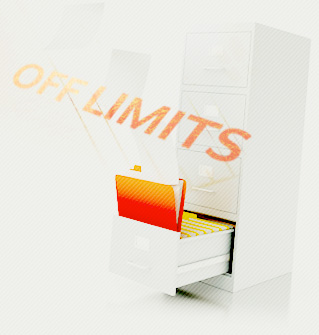
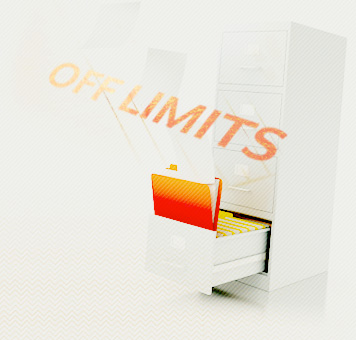
next text on findatcat

Changed region(s): [[0.0282, 0.1791, 0.8182, 0.5075], [0.3386, 0.4776, 0.79, 0.9254]]

diff --git a/templates/findatcat/index.html b/templates/findatcat/index.html
@@ -10,22 +10,18 @@
 {% block main_content %}
 <div id="columns">
     <div id="fullColumn">
-        <h2><a href="/buriedtreasure/">Buried Treasure</a> <span>What we don't know about money in America</span></h2>
+        <h2 class="title"><a href="/buriedtreasure/">Buried Treasure</a> <span>What we don't know about money in America</span></h2>
         <ul id="featureNav">
             <li class="last"><a href="mailto:buriedtreasure@sunlightfoundation.com">Suggest a Story</a></li>
         </ul>    
         <div class="clear" id="financialFeature">
             <div id="ltColumn">
-                <p>The financial world is in turmoil; the economic forecasts are beyond grim. Unemployment rates are among the highest seen in decades. Millions of Americans are estimated to be “underwater” in their mortgages—owing more on their homes than their properties are worth. Retirement funds are dwindling. The threat of a double dip recession looms.</p>
-                <p>In the midst of all this tumult, a person seeking simple information about aspects of their financial life is often thwarted. While the federal government maintains vast treasure troves of relevant financial data, and wields the power to compel corporate America to report much more, not all of this information is disclosed.</p>
-                <p><b>This page serves as hub for our reporting on financial data—who has it, why it is important</b>, whether it is publicly available and whether it’s in a format that is easily accessible. You will find stories, links to databases and other resources.</p>
+                <p>The federal government maintains vast treasure troves of important financial data, but discloses little. It holds the power to compel corporate America to report much more, but rarely does.</p>
+                <p><b>This page serves as hub for our reporting on this financial data. Who has it? Why it is important?</b> What is publicly available? How can you get it?</p>
+                <p>On this site you will find stories, links to databases and other resources. Have an idea for a story? <a href="mailto:buriedtreasure@sunlightfoundation.com">Let us know</a>.</p>
             </div>
             <div id="rtColumn">
-                <img alt="filing cabinet with files flying out" src="{% media_url %}/img/img_financial.jpg"/>
-                <div id="callOut">
-                    <span class="tip">Have an idea for a story you’d like us to investigate on financial data?</span>
-                    <a class="tip" href="mailto:buriedtreasure@sunlightfoundation.com">Give us a tip</a>
-                </div>   
+                <img alt="filing cabinet with files flying out" src="{% media_url %}/img/img_financial.jpg"/> 
             </div>
             <div class="clear"></div>
         </div>

diff --git a/media/css/finance.css b/media/css/finance.css
@@ -3,13 +3,13 @@
 
 #financialFeature #ltColumn { width: 500px; padding: 0;}
 #financialFeature #rtColumn { width: 355px; padding: 0;}
-#financialFeature img { margin-top: -70px;  margin-left: 30px;}
-#financialFeature { background: url(../img/bg_featureFinance.jpg) bottom left no-repeat; margin-bottom: 50px; padding-bottom: 30px;}
+#financialFeature img { margin-top: -125px; }
+#financialFeature { background: url(../img/bg_featureFinance.jpg) bottom left no-repeat; margin-bottom: 60px; padding-bottom: 30px;}
 #financialFeature p { font-size: 110%;}
 #featureNav { margin-bottom: 60px; }
 #featureNav li { border-right: 1px solid #D2DEDF;}
 
-#callOut { background-color: #e1e7e6; border: 1px solid #d4ddd8; -moz-border-radius: 3px; -webkit-border-radius: 3px; padding: 15px 20px; text-align: center; font-size: 110%;}
+#callOut { background-color: #e1e7e6; border: 1px solid #d4ddd8; -moz-border-radius: 3px; -webkit-border-radius: 3px; padding: 15px 20px; text-align: center; font-size: 110%; position: absolute; width: 320px; margin-top: -30px;}
 #callOut span { margin-bottom: 5px; display: block;}
 
 #internalLtColumn #callOut { text-align: left; }
@@ -22,5 +22,5 @@
 .categoriesPlain li.current { background-color: #e1e7e6; }
 .categoriesPlain span { font-style: oblique; font-size: 95%; font-family: Georgia, Times New Roman, Times, serif;}
 
-h2 { background: url(../img/bg_titleLine.png) bottom left no-repeat; padding-bottom: 10px; z-index: 2; position: relative;}
-h2 span { display: block; font-size: 50%; font-style: oblique; line-height: 25px; color: #58595B;}
+h2.title { background: url(../img/bg_titleLine.png) bottom left no-repeat; padding-bottom: 10px; z-index: 2; position: relative; text-transform: uppercase; font-size: 300%;}
+h2 span { display: block; font-size: 40%; font-style: oblique; line-height: 25px; color: #7E7774; text-transform: none;}
